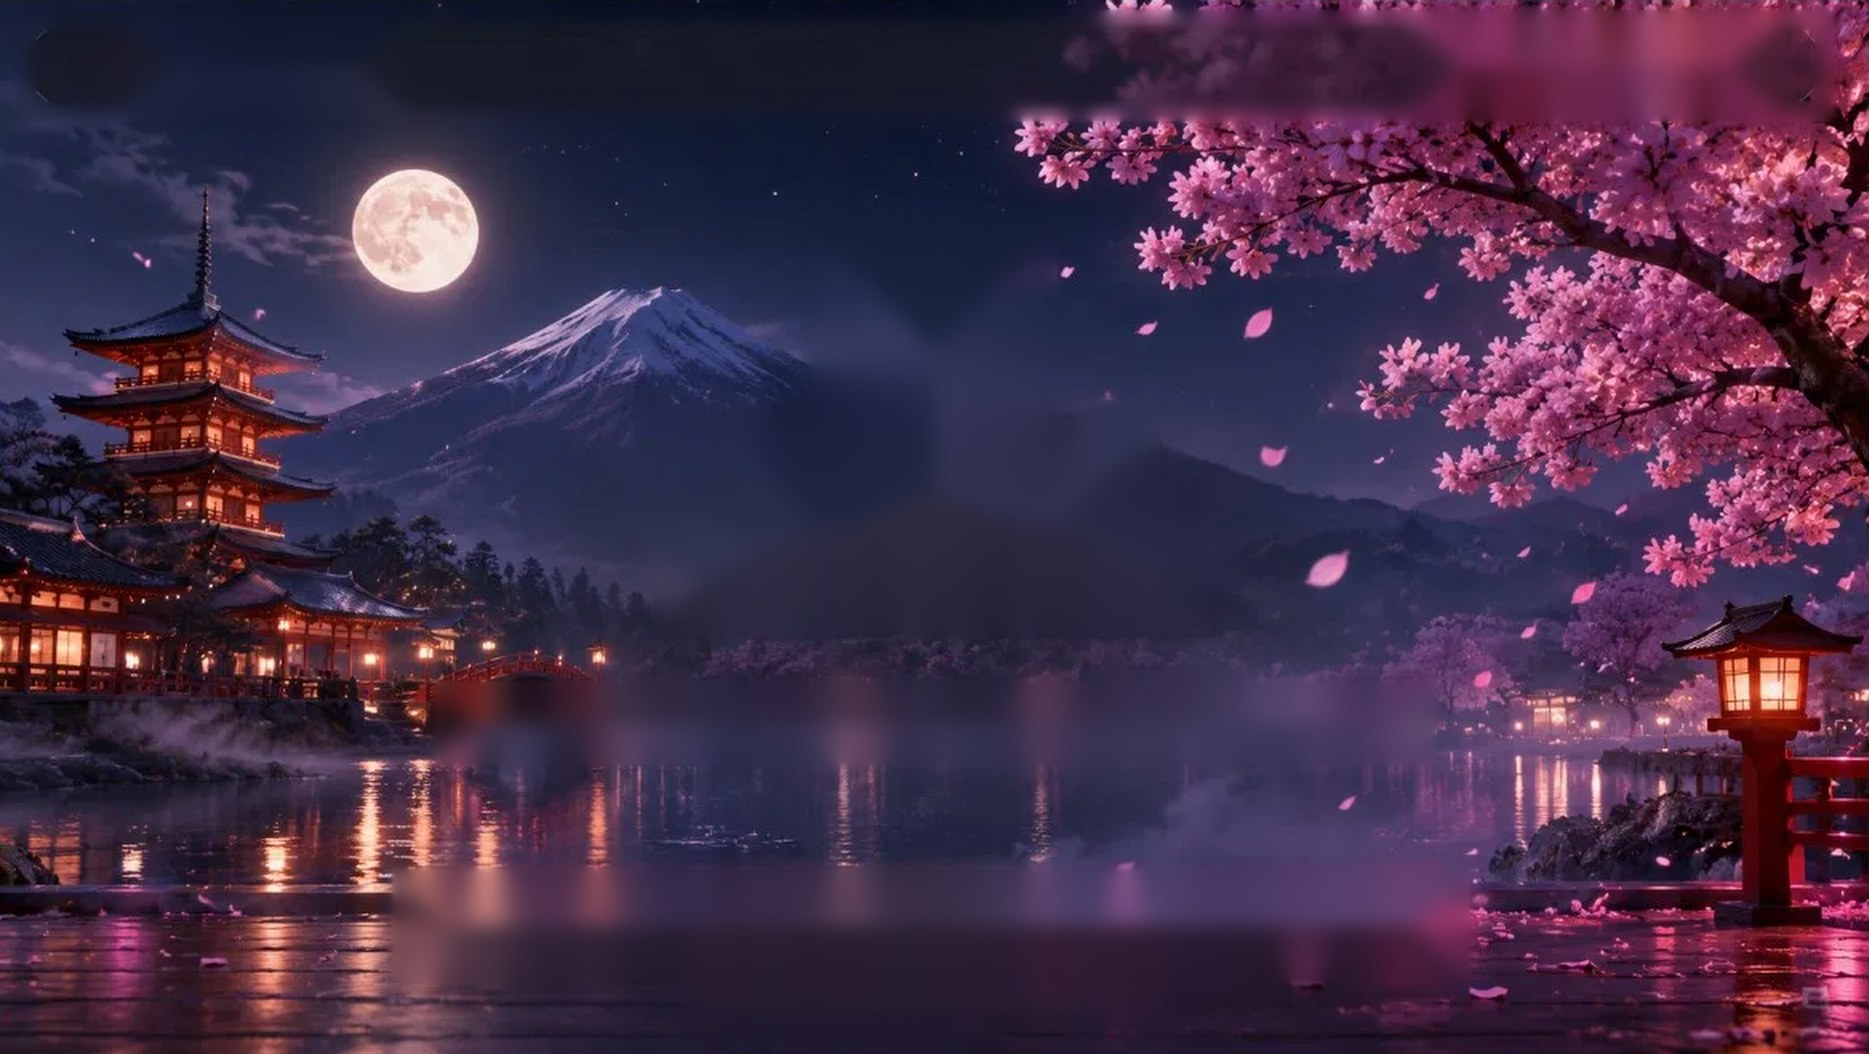
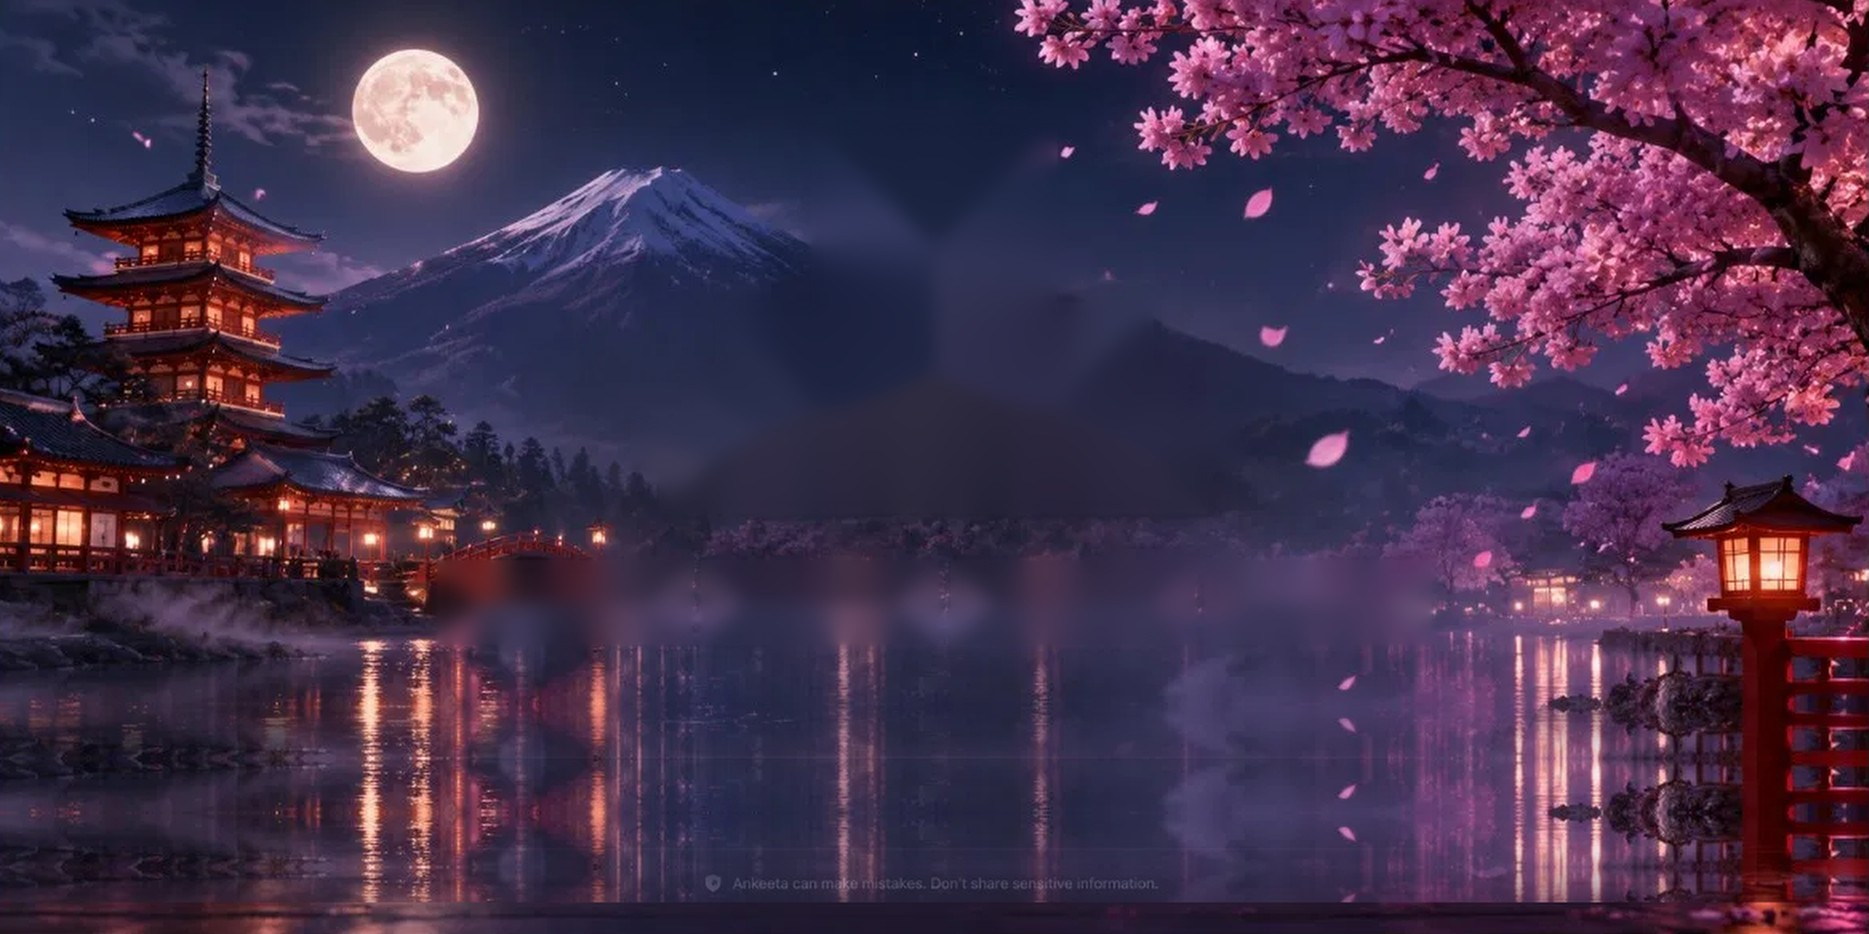
Theme redesign

diff --git a/public/sky.js b/public/sky.js
@@ -35,14 +35,14 @@
     const r = m && m.getBoundingClientRect();
     if (r && r.width) return r;
     if (root.classList.contains("photo-dark") && root.dataset.theme === "dark") {
-      const iw = 1869, ih = 1054, k = Math.max(innerWidth / iw, innerHeight / ih);
+      const iw = 1869, ih = 934, k = Math.max(innerWidth / iw, innerHeight / ih);
       const d = 0.068 * iw * k;
-      return { left: (innerWidth - iw * k) / 2 + 0.222 * iw * k - d / 2, top: (innerHeight - ih * k) / 2 + 0.218 * ih * k - d / 2, width: d };
+      return { left: (innerWidth - iw * k) / 2 + 0.222 * iw * k - d / 2, top: (innerHeight - ih * k) / 2 + 0.118 * ih * k - d / 2, width: d };
     }
     if (root.classList.contains("photo-light") && root.dataset.theme === "light") {
-      const iw = 1864, ih = 1043, k = Math.max(innerWidth / iw, innerHeight / ih);
+      const iw = 1864, ih = 923, k = Math.max(innerWidth / iw, innerHeight / ih);
       const d = 0.05 * iw * k;
-      return { left: (innerWidth - iw * k) / 2 + 0.165 * iw * k - d / 2, top: (innerHeight - ih * k) / 2 + 0.36 * ih * k - d / 2, width: d };
+      return { left: (innerWidth - iw * k) / 2 + 0.165 * iw * k - d / 2, top: (innerHeight - ih * k) / 2 + 0.275 * ih * k - d / 2, width: d };
     }
     return null;
   }

diff --git a/public/app.css b/public/app.css
@@ -688,3 +688,13 @@ html.moon-hover, html.moon-hover * { cursor: pointer; }
 @media (max-width: 767px) { html.photo-dark[data-theme="dark"] #scene { background-position: 30% center; } }
 html[data-theme="light"] .foot, html[data-theme="light"] .foot * { color: #3d2231; font-weight: 500; text-shadow: 0 0 6px #fff, 0 0 12px rgba(255, 255, 255, 0.9); }
 @media (max-width: 767px) { html.photo-light[data-theme="light"] #scene { background-position: 28% center; } }
+
+/* no banner: the header is just floating buttons over the scene */
+.chat-nav { margin: 0; border: 0; border-radius: 0; background: none; -webkit-backdrop-filter: none; backdrop-filter: none; box-shadow: none; position: absolute; top: 0; left: 0; right: 0; z-index: 15; pointer-events: none; }
+.chat-nav .nav-in { height: 64px; padding: 0 var(--s5); justify-content: space-between; }
+.chat-nav .who { display: none; }
+.chat-nav .icon-circle { pointer-events: auto; background: var(--glass); border: 1px solid var(--border-strong); -webkit-backdrop-filter: blur(14px); backdrop-filter: blur(14px); }
+.main { position: relative; }
+.welcome { min-height: calc(100dvh - 150px); padding-top: var(--s10); }
+.about { padding-top: var(--s10); }
+.composer-wrap::before { display: none; }
